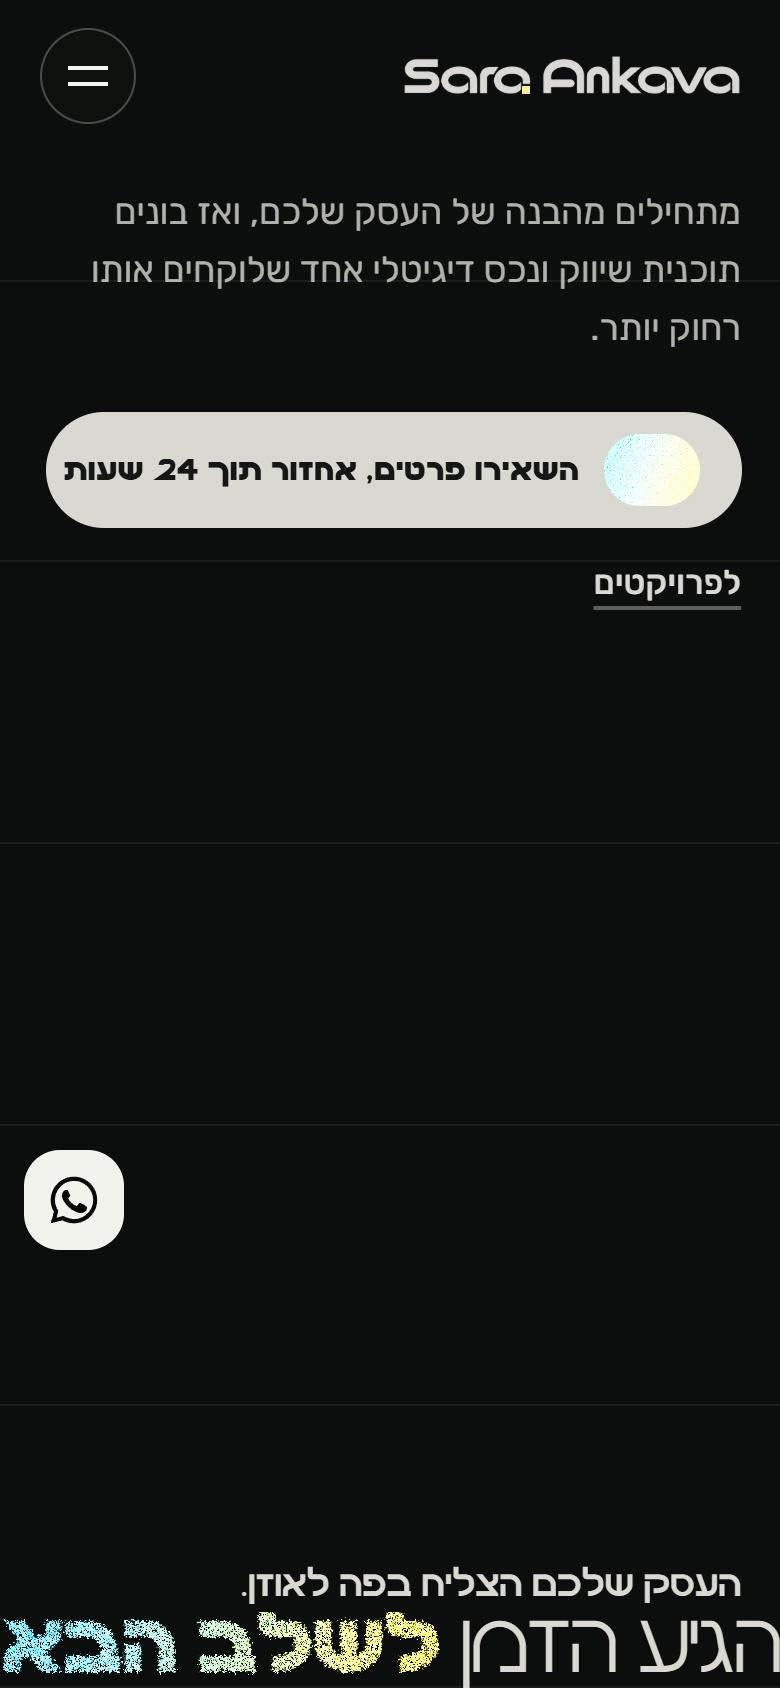
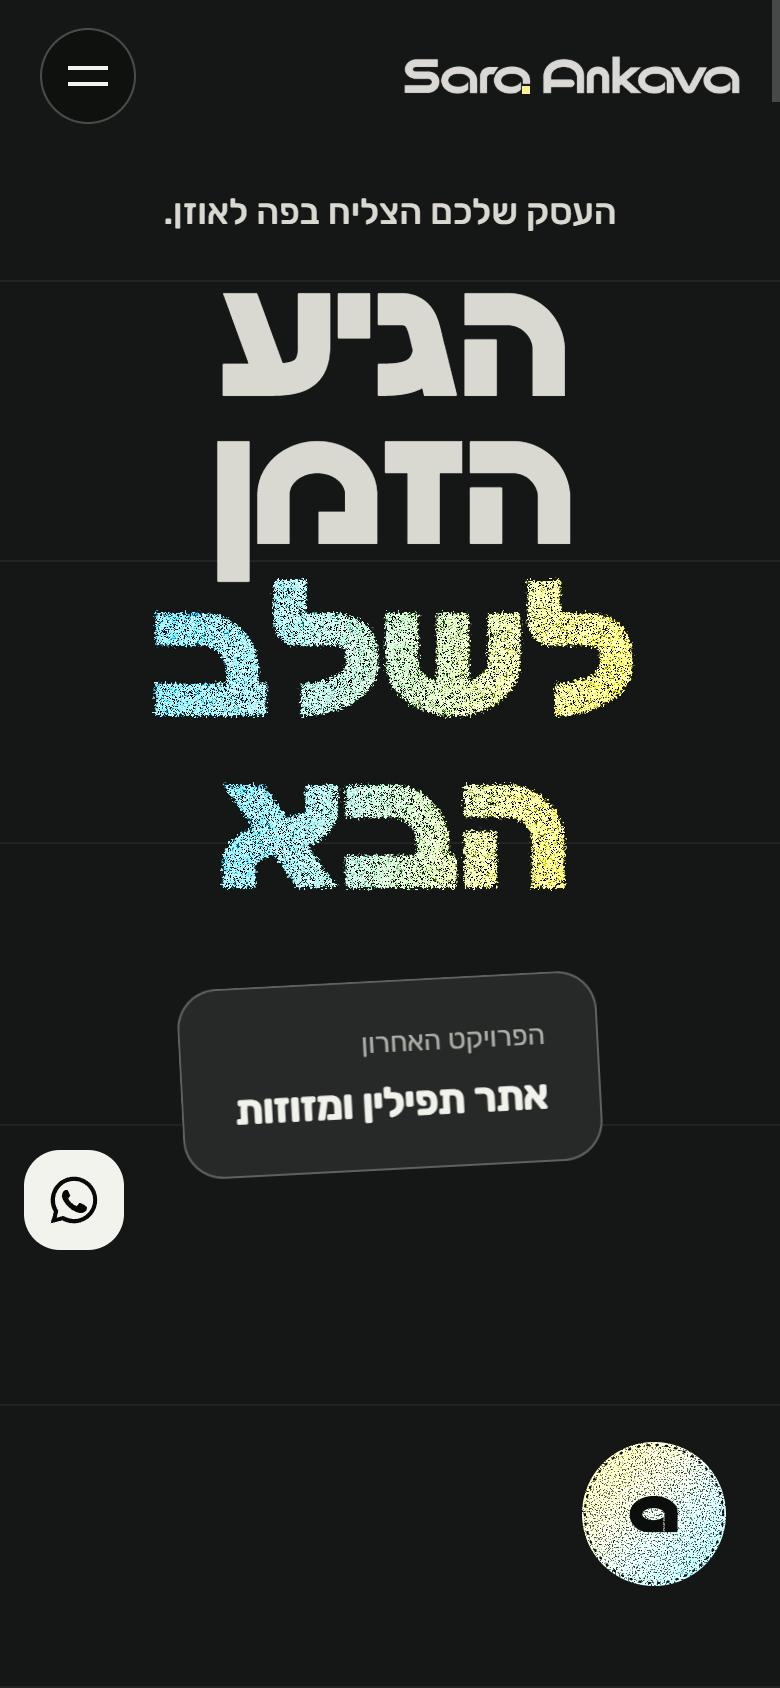
v6 hero: title as the visual (multi-line giant type, hand-drawn arrows, glass cards, badge), CTA and paragraph removed

diff --git a/versions/v6/index.html b/versions/v6/index.html
@@ -18,7 +18,7 @@
 <link rel="preload" href="assets/fonts/SaraAnkava-Bold-v1.2.woff2" as="font" type="font/woff2" crossorigin>
 <link rel="stylesheet" href="assets/css/style.css?v=6">
 <link rel="stylesheet" href="assets/css/v4.css?v=4">
-<link rel="stylesheet" href="assets/css/v6.css?v=33">
+<link rel="stylesheet" href="assets/css/v6.css?v=38">
 <meta name="robots" content="noindex">
 <script>document.documentElement.classList.add('js');setTimeout(function(){if(!window.__saReady)document.documentElement.classList.remove('js')},3000)</script>
 <script type="application/ld+json">
@@ -52,17 +52,21 @@
 
   <!-- 02 · הירו v6: בועת דיבור בצורת ה-a, כותרת ענקית מקצה לקצה צמודה לתחתית -->
   <svg width="0" height="0" style="position:absolute" aria-hidden="true"><filter id="v6rough" x="-2%" y="-2%" width="104%" height="104%"><feTurbulence type="fractalNoise" baseFrequency=".8" numOctaves="2" seed="2" result="n"/><feDisplacementMap in="SourceGraphic" in2="n" scale="5" xChannelSelector="R" yChannelSelector="G"/></filter></svg>
-  <section class="h6 gx" id="top" aria-labelledby="hero-title">
+  <section class="h6 hb" id="top" aria-labelledby="hero-title">
     <div class="h6__grid" aria-hidden="true"><i></i><i></i><i></i><i></i><i></i><i></i><i></i><i></i></div>
-    <a class="h6__card" href="#projects"><span>הפרויקט האחרון</span><b>אתר תפילין ומזוזות</b></a>
-    <div class="h6__info">
-      <p class="h6__p">מתחילים מהבנה של העסק שלכם, ואז בונים תוכנית שיווק ונכס דיגיטלי אחד שלוקחים אותו רחוק יותר.</p>
-      <div class="h6__ctas"><a class="cta6 cta6--main" href="#contact">השאירו פרטים, אחזור תוך 24 שעות</a><a class="h6__link" href="#projects">לפרויקטים</a></div>
-    </div>
-    <h1 class="h6__title" id="hero-title">
-      <span class="h6__small">העסק שלכם הצליח בפה לאוזן.</span>
-      <span class="h6__big" data-fit><span><span class="w w1">הגיע הזמן</span> <span class="w w2 gr-text">לשלב הבא</span></span></span>
+    <p class="hb__small">העסק שלכם הצליח בפה לאוזן.</p>
+    <h1 class="hb__title" id="hero-title">
+      <span class="hb__l" style="--i:0">הגיע הזמן</span>
+      <span class="hb__l gr-text" style="--i:1">לשלב</span>
+      <span class="hb__l gr-text" style="--i:2">הבא</span>
     </h1>
+    <svg class="hb__arrows" viewBox="0 0 1440 900" preserveAspectRatio="xMidYMid slice" aria-hidden="true">
+      <path class="ar ar1" d="M1130 205C1260 150 1350 250 1250 330"/><path class="ar ar1" d="M1250 330l36-6M1250 330l-4-34"/>
+      <path class="ar ar2" d="M205 790C100 740 150 640 230 690C300 735 230 805 170 745"/><path class="ar ar2" d="M230 690C300 650 370 625 440 612"/><path class="ar ar2" d="M440 612l-34-6M440 612l-24 26"/>
+    </svg>
+    <div class="hb__badge" aria-hidden="true"><div class="gr-sq"></div><svg viewBox="0 0 200 200"><circle cx="100" cy="100" r="96" fill="none" stroke="#0c0e0d" stroke-width="3" stroke-dasharray="2 11" stroke-linecap="round"/></svg><svg class="hb__a" viewBox="0 0 700 520"><path d="M260 520A260 260 0 0 1 0 260A350 260 0 0 1 350 0A350 260 0 0 1 700 260L700 490Q700 520 670 520L500 520L500 275.6A160 86 0 1 0 486 299.5L486 520Z"/></svg></div>
+    <a class="hb__card hb__card1" href="#projects"><span>הפרויקט האחרון</span><b>אתר תפילין ומזוזות</b></a>
+    <div class="hb__card hb__card2"><span>שיחה ראשונה</span><b>להבנת העסק והשלב הבא שלו</b></div>
   </section>
 
   <!-- 03 · פרויקטים: טורים זה לצד זה. מעבר עכבר פותח טור ומציג את המוקאפ -->
@@ -492,17 +496,6 @@
 <script src="assets/js/main.js?v=4" defer></script>
 <script src="assets/js/header.js?v=4" defer></script>
 <script src="assets/js/v4.js?v=2" defer></script>
-<script>(function(){
-  var still=location.hash==="#still";
-  if(still){var s=document.createElement("style");s.textContent=".h6__big>span,.h6__info,.h6__mkwrap{animation:none!important;opacity:1!important;transform:none!important;opacity:1!important}";document.head.appendChild(s)}
-  function fit(){
-    var big=document.querySelector(".h6__big"),inner=big.firstElementChild,title=document.querySelector(".h6__title");
-    var target=title.clientWidth;
-    inner.style.display="inline-block";inner.style.fontSize="100px";
-    var w=inner.getBoundingClientRect().width;inner.style.fontSize=(100*target/w)+"px"
-  }
-  var go=function(){fit()};
-  (document.fonts&&document.fonts.load?Promise.all([document.fonts.load('300 40px "Sara Ankava"'),document.fonts.load('700 40px "Sara Ankava"')]):Promise.resolve()).then(function(){return document.fonts.ready}).then(go,go);addEventListener("resize",go);go();
-})()</script>
+<script>if(location.hash==="#still"){var s=document.createElement("style");s.textContent=".hb__l,.hb__small,.hb__card,.hb__badge{animation:none!important;transform:none!important;opacity:1!important}.hb__badge{transform:none!important}.ar{animation:none!important;stroke-dashoffset:0!important}";document.head.appendChild(s)}</script>
 </body>
 </html>

diff --git a/versions/v6/assets/css/v6.css b/versions/v6/assets/css/v6.css
@@ -200,3 +200,41 @@ body::before,body::after{display:none!important}
 
 .h6__big{letter-spacing:0}.h6__big>span{letter-spacing:-.04em}
 @media (max-width:900px){.h6__big{margin-bottom:0;padding-bottom:4px}}
+
+/* ===== v6 · הירו "הכותרת היא הויזואל": כותרת ענקית בכמה שורות, כרטיסי זכוכית, חיצים מצוירים וסטיקר מסתובב ===== */
+.h6.hb{justify-content:center;align-items:center;text-align:center;padding:calc(var(--hdr,76px) + 4vh) 4vw 6vh}
+.hb__small{position:relative;z-index:4;margin:0 0 1.2vh;font-size:clamp(18px,1.9vw,30px);font-weight:500;color:var(--v6-stone)}
+.hb__title{position:relative;z-index:2;margin:0;display:grid;justify-items:center;font-family:"Sara Ankava",system-ui,sans-serif;font-weight:700;font-size:clamp(64px,13.5vw,214px);line-height:.86;letter-spacing:-.045em;color:var(--v6-stone)}
+.hb__l{display:block;overflow:hidden;padding:.04em .06em .1em;animation:hb-up 1s cubic-bezier(.2,.8,.2,1) both;animation-delay:calc(.15s + var(--i) * .12s)}
+@keyframes hb-up{from{transform:translateY(60%);opacity:0}to{transform:none;opacity:1}}
+.hb__arrows{position:absolute;inset:0;width:100%;height:100%;z-index:3;pointer-events:none;overflow:visible}
+.ar{fill:none;stroke-width:7;stroke-linecap:round;stroke-linejoin:round;stroke-dasharray:1200;stroke-dashoffset:1200;animation:hb-draw 1.6s ease forwards 1.1s}
+.ar1{stroke:var(--v6-sun)}.ar2{stroke:var(--v6-mint)}
+@keyframes hb-draw{to{stroke-dashoffset:0}}
+.hb__badge{position:absolute;z-index:4;right:11vw;bottom:15vh;width:clamp(110px,10.5vw,160px);aspect-ratio:1;border-radius:50%;animation:hb-spin 22s linear infinite}
+.hb__badge .gr-sq{position:absolute;inset:0;border-radius:50%}
+.hb__badge>svg:first-of-type{position:absolute;inset:0;width:100%;height:100%}
+.hb__badge text{font:700 19px "Sara Ankava",system-ui,sans-serif;fill:#0c0e0d;letter-spacing:.06em}
+.hb__a{position:absolute;left:50%;top:50%;width:34%;transform:translate(-50%,-50%);fill:#0c0e0d}
+@keyframes hb-spin{to{transform:rotate(360deg)}}
+.hb__card{position:absolute;z-index:4;display:grid;gap:6px;padding:20px 26px;text-align:start;color:var(--v6-paper);text-decoration:none;background:rgb(217 217 210 / .09);-webkit-backdrop-filter:blur(16px);backdrop-filter:blur(16px);border:1px solid rgb(255 255 255 / .26);border-radius:20px;animation:hb-float 6s ease-in-out infinite alternate}
+.hb__card span{font-size:14px;color:rgb(217 217 210 / .75)}
+.hb__card b{font-size:20px;font-weight:700;line-height:1.25;max-width:14ch}
+.hb__card1{left:9vw;top:34vh;rotate:-6deg}
+.hb__card2{right:12vw;top:30vh;rotate:5deg;animation-delay:-3s}
+@keyframes hb-float{to{translate:0 -12px}}
+@media (max-width:900px){
+  .h6.hb{padding:calc(var(--hdr,76px) + 16px) 16px 40px;justify-content:flex-start}
+  .hb__title{font-size:clamp(54px,22vw,96px)}
+  .hb__arrows,.hb__card2{display:none}
+  .hb__card1{position:relative;left:auto;top:auto;margin:20px auto 0;rotate:-3deg}
+  .hb__badge{right:8vw;bottom:auto;top:calc(var(--hdr,76px) + 70px);width:84px}
+}
+@media (prefers-reduced-motion:reduce){.hb__l,.hb__card,.hb__badge,.ar{animation:none;stroke-dashoffset:0;opacity:1}}
+
+.hb__l{padding-bottom:.3em;margin-bottom:-.2em}
+.hb__card2{right:26vw;top:44vh}
+.hb__badge text{direction:rtl;unicode-bidi:bidi-override}
+.hb__l{overflow:visible}
+@media (min-width:901px){.hb__card2{right:5vw;top:47vh}}
+@media (max-width:900px){.hb__badge{top:auto;bottom:6vh;right:7vw;width:72px}.hb__card1{margin-top:28px}}
